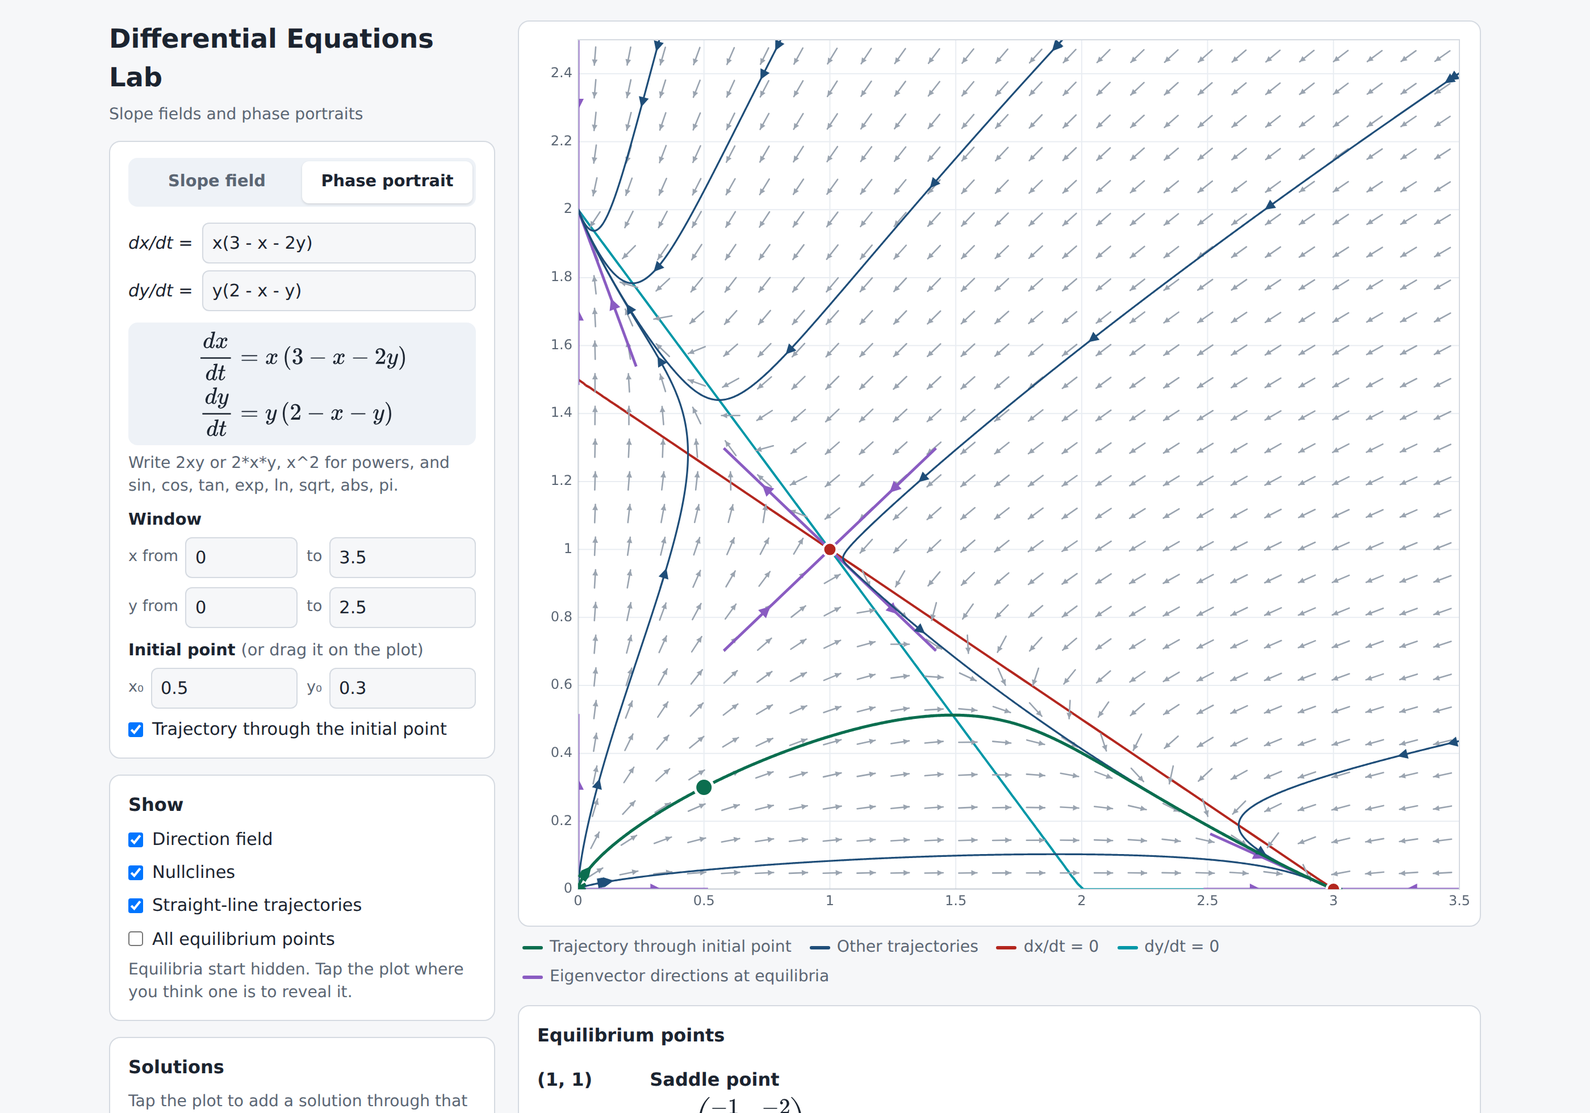
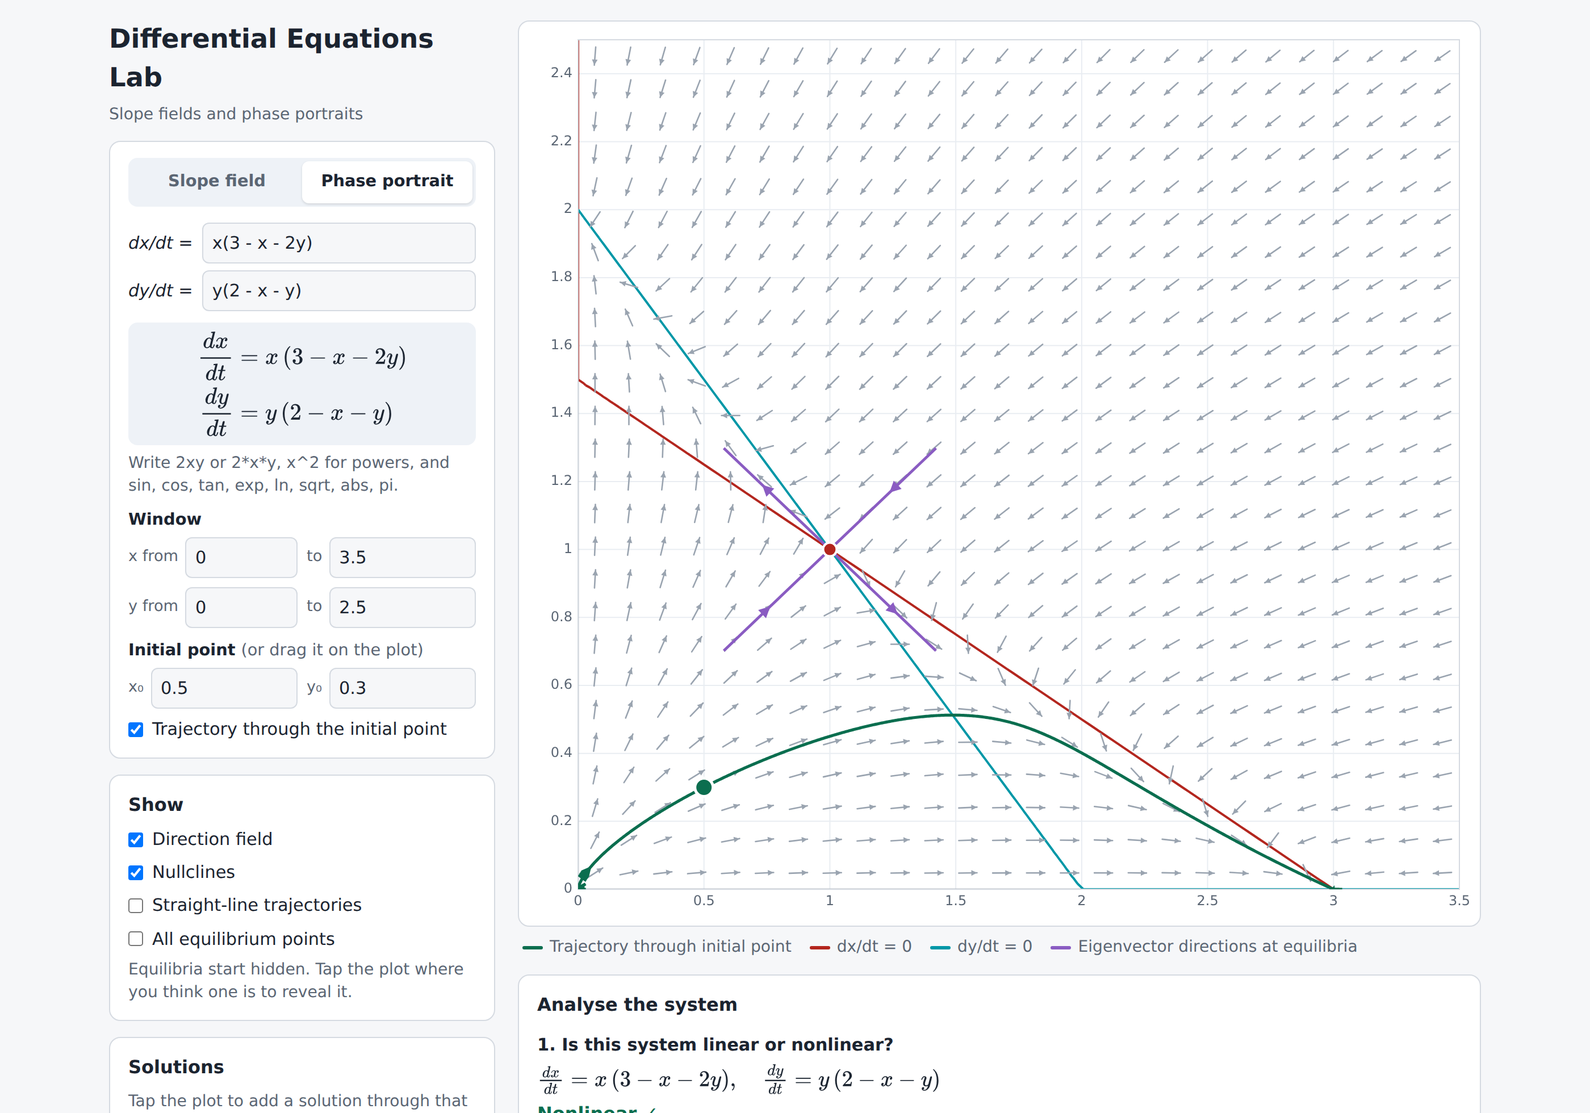
Coupled Linear DE Update Functionality

diff --git a/index.html b/index.html
@@ -93,6 +93,21 @@ tr.sel td{background:color-mix(in srgb,var(--euler) 18%,transparent)}
 .try{border:1px dashed var(--line);border-radius:8px;padding:10px 12px;margin-top:6px}
 footer{max-width:1240px;margin:0 auto;padding:4px 16px 28px;color:var(--muted);font-size:.88rem;display:flex;flex-wrap:wrap;gap:6px 16px;justify-content:space-between;border-top:1px solid var(--line);padding-top:14px}
 footer a{color:var(--accent)}
+.acard{border:1px solid var(--line);border-radius:10px;padding:12px 14px;margin-top:12px}
+.acard h3{font-size:1rem;margin:0 0 6px}
+.step{margin-top:12px;padding-top:10px;border-top:1px dashed var(--line)}
+.step:first-of-type{border-top:0;padding-top:0}
+.step h4{margin:0 0 6px;font-size:.95rem}
+.mat{display:inline-flex;align-items:center;gap:10px;margin:6px 0}
+.mgrid{display:grid;grid-template-columns:repeat(var(--cols,2),74px);gap:6px;padding:4px 10px;border-left:2px solid var(--ink);border-right:2px solid var(--ink);border-radius:8px}
+.mgrid input{text-align:center;padding:5px 4px}
+.mgrid input.bad{border-color:var(--eq);background:color-mix(in srgb,var(--eq) 10%,var(--bg))}
+.lrow{display:flex;flex-wrap:wrap;align-items:center;gap:8px 14px;margin:6px 0}
+.lrow input{width:130px}
+.choices{display:flex;flex-wrap:wrap;gap:6px;margin:6px 0}
+.choices button[aria-pressed="true"]{border-color:var(--accent);box-shadow:inset 0 0 0 1px var(--accent);background:var(--soft)}
+.done{color:var(--main);font-weight:700}
+.answer{background:var(--soft);border-radius:8px;padding:8px 12px;margin-top:8px}
 [hidden]{display:none!important}
 </style>
 <script>
@@ -191,7 +206,7 @@ window.MathJax={tex:{inlineMath:[["\\(","\\)"]],displayMath:[["\\[","\\]"]]},svg
 <div>
   <div class="plotwrap"><canvas id="cv" tabindex="0" aria-label="Plot. Drag the green point to move the initial point; arrow keys also move it."></canvas></div>
   <div class="legend" id="legend"></div>
-  <div class="panel" id="eqPanel" hidden style="margin-top:14px"><h2>Equilibrium points</h2><div id="eqList"></div></div>
+  <div class="panel" id="eqPanel" hidden style="margin-top:14px"><h2>Analyse the system</h2><div id="eqList"></div></div>
   <div class="panel" id="eulerPanel" hidden style="margin-top:14px">
     <h2>Euler's method</h2>
     <div class="tex" id="eulerTex" style="justify-content:flex-start"></div>
@@ -338,7 +353,7 @@ const $=id=>document.getElementById(id);
 const st={
   mode:"slope",
   slope:{src:["x + y"],w:[-4,4,-4,4],p:[0,0],h:0.5,n:8,seeds:[],F:null,ast:null},
-  phase:{src:["x + 2y","2x + y"],w:[-3,3,-3,3],p:[1,-0.5],h:0.1,n:15,seeds:[],F:null,ast:null,eqs:[],revealed:new Set(),linear:false},
+  phase:{src:["x + 2y","2x + y"],w:[-3,3,-3,3],p:[1,-0.5],h:0.1,n:15,seeds:[],F:null,ast:null,eqs:[],revealed:new Set(),linear:false,slDone:new Set(),task:null},
 };
 const S=()=>st[st.mode];
 const css=v=>getComputedStyle(document.documentElement).getPropertyValue(v).trim();
@@ -501,7 +516,8 @@ function analyse(e){
     ev=`\\lambda = ${Math.abs(re)<eps?"":fmt(re)}\\pm ${fmt(im)}i`;
     type=Math.abs(re)<eps?(st.phase.linear?"Centre":"Centre (linear approximation)"):(re<0?"Stable spiral":"Unstable spiral");
   }
-  return{J,ev,type,vecs};
+  const scalar=Math.abs(J[1])<1e-9&&Math.abs(J[2])<1e-9&&Math.abs(J[0]-J[3])<1e-9;
+  return{J,ev,type,vecs,scalar,tr,det,disc};
 }
 function checkLinear(){
   const s=st.phase,w=s.w;const pts=[[0.13,0.71],[0.62,0.24],[0.87,0.55],[0.31,0.38]].map(([a,b])=>[w[0]+a*(w[1]-w[0]),w[2]+b*(w[3]-w[2])]);
@@ -537,10 +553,10 @@ function drawBase(){
       c.strokeStyle=css("--blue");strokeSegs(c,contour((x,y)=>s.F(x,y)[1]));
     }
     if($("showField").checked)drawField(c);
-    if($("showSL").checked){
+    if($("showSL").checked||s.slDone.size){
       c.strokeStyle=css("--sl");c.fillStyle=css("--sl");c.lineWidth=2.4;
       const span=Math.hypot(s.w[1]-s.w[0],s.w[3]-s.w[2]);
-      for(const e of s.eqs){const a=analyse(e);for(const {l,v} of a.vecs){
+      for(const [ei,e] of s.eqs.entries()){if(!$("showSL").checked&&!s.slDone.has(ei))continue;const a=analyse(e);if(a.scalar)continue;for(const {l,v} of a.vecs){
         if(Math.abs(l)<1e-12)continue;
         const L=s.linear?span*2:span*0.12;
         const p1=toS(e.x-v[0]*L,e.y-v[1]*L),p2=toS(e.x+v[0]*L,e.y+v[1]*L);
@@ -659,8 +675,190 @@ function render(rebuildBase=true){
 }
 let raf=0;function overlay(){if(raf)return;raf=requestAnimationFrame(()=>{raf=0;render(false)})}
 
-/* ---------- Equilibrium panel ---------- */
-function renderEqPanel(){
+
+/* ---------- Analyse the system: student task ---------- */
+function resetTask(){const s=st.phase;s.task={lin:null,linSel:null,linTries:0,cards:{}};s.slDone=new Set()}
+function card(i){const t=st.phase.task;return t.cards[i]||(t.cards[i]={A:["","","",""],Aok:false,At:0,Abad:[],L:["",""],Lok:false,Lt:0,V:[["",""],["",""]],Vok:false,Vt:0,T:null,Tok:false,Tt:0,fb:{}})}
+function num(src){const c=compile(String(src),[]);const v=c.fn();if(!isFinite(v))throw Error("Not a number.");return v}
+function cplx(src){
+  const c=compile(String(src).replace(/\u2212/g,"-"),["i"]),f0=c.fn(0),f1=c.fn(1),f2=c.fn(2);
+  const re=f0,im=f1-f0;if(![re,im].every(isFinite)||Math.abs((f2-f0)-2*im)>1e-9*(1+Math.abs(im)))throw Error("Write each eigenvalue like 3, -0.5, 1 + 2i or -1 - 2i.");
+  return{re,im};
+}
+function eigs(a){
+  if(a.disc>=-1e-9){const r=Math.sqrt(Math.max(a.disc,0));return[{re:(a.tr+r)/2,im:0},{re:(a.tr-r)/2,im:0}]}
+  const im=Math.sqrt(-a.disc)/2;return[{re:a.tr/2,im},{re:a.tr/2,im:-im}];
+}
+const ctex=z=>Math.abs(z.im)<1e-9?fmt(z.re):(Math.abs(z.re)<1e-9?"":fmt(z.re))+(z.im<0?"-":(Math.abs(z.re)<1e-9?"":"+"))+(Math.abs(Math.abs(z.im)-1)<1e-9?"":fmt(Math.abs(z.im)))+"i";
+const TYPES=["Saddle point","Stable node","Unstable node","Stable spiral","Unstable spiral","Centre"];
+function typeKey(t){if(/Degenerate/.test(t))return null;if(/node/.test(t))return t.startsWith("Stable")?"Stable node":"Unstable node";if(/Centre/.test(t))return"Centre";return t}
+function mtex(J){return`\\begin{pmatrix}${fmt(J[0])}&${fmt(J[1])}\\\\${fmt(J[2])}&${fmt(J[3])}\\end{pmatrix}`}
+function lineTex(e,v){
+  if(Math.abs(v[0])<1e-9)return`x=${fmt(e.x)}`;
+  const m=v[1]/v[0],c=e.y-m*e.x,mm=Math.abs(m)<1e-12?"":(Math.abs(m-1)<1e-9?"":Math.abs(m+1)<1e-9?"-":fmt(m))+"x";
+  if(!mm)return`y=${fmt(c)}`;
+  return`y=${mm}${Math.abs(c)<1e-9?"":(c<0?"-":"+")+fmt(Math.abs(c))}`;
+}
+function renderEqPanel(){renderTask()}
+function renderTask(){
+  const s=st.phase,box=$("eqList");
+  if(st.mode!=="phase"||!s.F){$("eqPanel").hidden=true;return}
+  if(!s.task)resetTask();
+  $("eqPanel").hidden=false;
+  const t=s.task,eqTex=`\\frac{dx}{dt}=${tex(s.ast[0])},\\quad \\frac{dy}{dt}=${tex(s.ast[1])}`;
+  let h=`<div class="step"><h4>1. Is this system linear or nonlinear?</h4><p style="margin:0">\\(${eqTex}\\)</p>`;
+  if(t.lin===null){
+    h+=`<div class="choices">${["Linear","Nonlinear"].map(o=>`<button data-lin="${o}" aria-pressed="${t.linSel===o}">${o}</button>`).join("")}</div>
+    <div class="row" style="margin-top:4px"><button class="primary" data-act="lin">Check</button></div><div class="fb" id="linFb"></div>`;
+  }else h+=`<p class="done" style="margin:6px 0 0">${s.linear?"Linear":"Nonlinear"} \u2713</p>`;
+  h+=`</div>`;
+  if(t.lin){
+    if(s.linear){
+      if(!s.eqs.length)h+=`<div class="step"><p>The matrix of this system is singular, so there is no single equilibrium point in view (there may be a whole line of them). Try another system.</p></div>`;
+      else h+=cardHTML(0,true);
+    }else{
+      h+=`<div class="step"><h4>2. Find the equilibrium points</h4><p style="margin:0">Solve \\(\\frac{dx}{dt}=0\\) and \\(\\frac{dy}{dt}=0\\) simultaneously (the nullclines cross there), then tap each point on the plot to check it. Each one you find gets its own analysis below.</p></div>`;
+      const shown=s.eqs.map((e,i)=>i).filter(i=>$("showEq").checked||s.revealed.has(i));
+      if(!shown.length)h+=`<p class="hint">No equilibrium points found yet.</p>`;
+      for(const i of shown)h+=cardHTML(i,false);
+    }
+  }
+  box.innerHTML=h;
+  // restore focus-free values already in HTML; typeset
+  typeset(box);
+}
+function matInputs(i,key,vals,bad,cols=2,rows=2){
+  let g=`<div class="mgrid" style="--cols:${cols}">`;
+  for(let r=0;r<rows;r++)for(let c=0;c<cols;c++){const k=r*cols+c;g+=`<input data-card="${i}" data-key="${key}" data-k="${k}" value="${String(vals[k]??"").replace(/"/g,"&quot;")}" class="${bad&&bad.includes(k)?"bad":""}" inputmode="decimal" aria-label="row ${r+1} column ${c+1}">`}
+  return g+`</div>`;
+}
+function cardHTML(i,lin){
+  const s=st.phase,e=s.eqs[i],a=analyse(e),c=card(i),M=lin?"A":"J",n0=lin?2:3;
+  let h=`<div class="acard"><h3>${lin?"The linear system":`Equilibrium at (${fmt(e.x)}, ${fmt(e.y)})`}</h3>`;
+  // Step: matrix
+  h+=`<div class="step"><h4>${n0}. ${lin?"Write the system in matrix form":"Find the Jacobian matrix at this point"}</h4>`;
+  if(lin){
+    h+=`<p style="margin:0">\\(\\begin{pmatrix}\\dot x\\\\ \\dot y\\end{pmatrix}=A\\begin{pmatrix}x\\\\ y\\end{pmatrix}\\), where \\(A=\\begin{pmatrix}a&b\\\\ c&d\\end{pmatrix}\\).${Math.abs(e.x)>1e-9||Math.abs(e.y)>1e-9?` (The equilibrium is not at the origin, so use the coefficients of \\(x\\) and \\(y\\) only; the constants just move the equilibrium.)`:""}</p>`;
+  }else{
+    h+=`<p style="margin:0">\\(J=\\begin{pmatrix}\\frac{\\partial f}{\\partial x}&\\frac{\\partial f}{\\partial y}\\\\[2pt] \\frac{\\partial g}{\\partial x}&\\frac{\\partial g}{\\partial y}\\end{pmatrix}\\), where \\(f=\\frac{dx}{dt}\\) and \\(g=\\frac{dy}{dt}\\). Differentiate, then substitute \\(x=${fmt(e.x)},\\ y=${fmt(e.y)}\\).</p>`;
+  }
+  if(c.Aok)h+=`<p style="margin:8px 0 0">\\(${M}=${mtex(a.J)}\\) <span class="done">\u2713</span></p></div>`;
+  else{
+    h+=`<div class="mat"><span>\\(${M}=\\)</span>${matInputs(i,"A",c.A,c.Abad)}</div><div class="row" style="margin-top:4px"><button class="primary" data-act="A" data-card="${i}">Check</button>${c.At>=2?`<button data-act="Ashow" data-card="${i}">Show answer</button>`:""}</div><div class="fb ${c.fb.Ac||""}">${c.fb.A||""}</div></div></div>`;
+    return h;
+  }
+  // Step: eigenvalues
+  const ev=eigs(a);
+  h+=`<div class="step"><h4>${n0+1}. Find the eigenvalues of \\(${M}\\)</h4><p style="margin:0">Solve \\(\\det(${M}-\\lambda I)=0\\):\\(\\quad\\det\\begin{pmatrix}${fmt(a.J[0])}-\\lambda&${fmt(a.J[1])}\\\\ ${fmt(a.J[2])}&${fmt(a.J[3])}-\\lambda\\end{pmatrix}=0\\)</p>`;
+  if(c.Lok)h+=`<p style="margin:8px 0 0">\\(\\lambda_1=${ctex(ev[0])},\\ \\lambda_2=${ctex(ev[1])}\\) <span class="done">\u2713</span></p></div>`;
+  else{
+    h+=`<div class="lrow"><span>\\(\\lambda_1=\\)</span><input data-card="${i}" data-key="L" data-k="0" value="${c.L[0].replace(/"/g,"&quot;")}"><span>\\(\\lambda_2=\\)</span><input data-card="${i}" data-key="L" data-k="1" value="${c.L[1].replace(/"/g,"&quot;")}"></div>
+    <p class="hint" style="margin:0">Complex eigenvalues can be typed like -1 + 2i. Repeated eigenvalues go in both boxes.</p>
+    <div class="row"><button class="primary" data-act="L" data-card="${i}">Check</button>${c.Lt>=2?`<button data-act="Lshow" data-card="${i}">Show answer</button>`:""}</div><div class="fb ${c.fb.Lc||""}">${c.fb.L||""}</div></div></div>`;
+    return h;
+  }
+  // Step: eigenvectors
+  const real=Math.abs(ev[0].im)<1e-9;
+  h+=`<div class="step"><h4>${n0+2}. ${real?`Find the eigenvectors${lin?" and the straight-line trajectories":""}`:"Eigenvectors"}</h4>`;
+  if(!real){
+    h+=`<p style="margin:0">The eigenvalues are complex, so there are no real eigenvectors. No trajectory travels along a straight line: solutions turn around the equilibrium instead${Math.abs(ev[0].re)<1e-9?" (closed loops when the real part is 0)":", spiralling"}.</p></div>`;
+    c.Vok=true;
+  }else{
+    const vl=vecList(a,ev);
+    if(c.Vok){
+      h+=`<p style="margin:0">`+vl.map((q,k)=>{const w=shownVec(c,k,q);return`\\(\\lambda=${fmt(q.l)}:\\ \\mathbf v=\\begin{pmatrix}${fmt(w[0])}\\\\ ${fmt(w[1])}\\end{pmatrix}\\)`}).join("&emsp;")+` <span class="done">\u2713</span></p>`;
+      if(a.scalar)h+=`<p>Every nonzero vector is an eigenvector here, so every line through the equilibrium is a straight-line trajectory.</p>`;
+      else{
+        h+=`<div class="answer"><b>${lin?"Straight-line trajectories":"Eigenvector directions"}</b>${lin?"":" (trajectories near the equilibrium approach or leave along these lines; they are only exactly straight for linear systems)"}:`;
+        for(const q of vl){if(Math.abs(q.l)<1e-12){h+=`<div>\\(${lineTex(e,q.v)}\\): a line of equilibrium points (\\(\\lambda=0\\)).</div>`;continue}
+          h+=`<div>\\(${lineTex(e,q.v)}\\): \\(\\lambda=${fmt(q.l)}${q.l<0?"<0":">0"}\\), so ${lin?"solutions on this line move":"nearby trajectories move along this direction"} ${q.l<0?"towards":"away from"} the equilibrium.</div>`}
+        h+=`<div class="hint" style="margin-top:6px">These are now drawn on the plot.</div></div>`;
+      }
+      h+=`</div>`;
+    }else{
+      h+=`<p style="margin:0">For each eigenvalue, solve \\((${M}-\\lambda I)\\mathbf v=\\mathbf 0\\). Any nonzero multiple of an eigenvector is fine.</p>`;
+      for(const [k,q] of vl.entries()){
+        h+=`<div class="lrow"><span>\\(\\lambda=${fmt(q.l)}:\\quad \\mathbf v=\\)</span>${matInputs(i,"V"+k,c.V[k],c.Vbad&&c.Vbad.includes(k)?[0,1]:[],1,2)}</div>`;
+      }
+      h+=`<div class="row"><button class="primary" data-act="V" data-card="${i}">Check</button>${c.Vt>=2?`<button data-act="Vshow" data-card="${i}">Show answer</button>`:""}</div><div class="fb ${c.fb.Vc||""}">${c.fb.V||""}</div></div></div>`;
+      return h;
+    }
+  }
+  // Step: classify
+  const key=typeKey(a.type);
+  h+=`<div class="step"><h4>${n0+3}. What type of equilibrium is it?</h4>`;
+  if(!key){h+=`<p style="margin:0">One eigenvalue is zero, so this is a degenerate case that doesn't fit the usual types.</p></div></div>`;return h}
+  if(c.Tok){
+    h+=`<p class="done" style="margin:0">${key} \u2713</p>`;
+    if(!lin&&key==="Centre")h+=`<p class="hint">For a nonlinear system the linearisation can't confirm a centre on its own, so check the trajectories on the plot: closed loops confirm it.</p>`;
+    h+=`</div></div>`;
+  }else{
+    h+=`<div class="choices">${TYPES.map(o=>`<button data-type="${o}" data-card="${i}" aria-pressed="${c.T===o}">${o}</button>`).join("")}</div>
+    <div class="row" style="margin-top:4px"><button class="primary" data-act="T" data-card="${i}">Check</button></div><div class="fb ${c.fb.Tc||""}">${c.fb.T||""}</div></div></div>`;
+  }
+  return h;
+}
+function niceVec(v){const nz=v.filter(x=>Math.abs(x)>1e-9);if(!nz.length)return v;const d=nz.reduce((m,x)=>Math.abs(x)<Math.abs(m)?x:m);return v.map(x=>{const r=x/d;return Math.abs(r-Math.round(r))<1e-6?Math.round(r):r})}
+function shownVec(c,k,q){try{const v=c.V[k].map(num);if(Math.hypot(...v)>1e-12)return v}catch(e){}return niceVec(q.v)}
+function vecList(a,ev){
+  if(a.scalar)return[{l:ev[0].re,v:[1,0]}];
+  if(Math.abs(ev[0].re-ev[1].re)<1e-9)return[{l:ev[0].re,v:a.vecs[0].v}];
+  return a.vecs.map(q=>({l:q.l,v:q.v}));
+}
+function taskCheck(act,i){
+  const s=st.phase,e=s.eqs[i],a=analyse(e),c=card(i),lin=s.linear,M=lin?"A":"J";
+  const say=(k,ok,msg)=>{c.fb[k]=msg;c.fb[k+"c"]=ok?"ok":"no"};
+  if(act==="A"){
+    c.Abad=[];let err=null;
+    c.A.forEach((v,k)=>{try{if(!near(num(v),a.J[k],1e-6))c.Abad.push(k)}catch(x){c.Abad.push(k);if(String(v).trim())err=err||"Use numbers only (fractions like 1/2 are fine)."}});
+    if(!c.Abad.length){c.Aok=true;c.fb.A=""}
+    else{c.At++;say("A",false,(err?err+" ":"")+`${c.Abad.length===1?"One entry is":c.Abad.length+" entries are"} not right yet (marked in red). `+(lin?"Each row holds the coefficients of x and y from one equation.":"Check the partial derivatives, then substitute the coordinates of the equilibrium."))}
+  }else if(act==="Ashow"){c.A=a.J.map(v=>fmt(v));c.Abad=[];c.Aok=true}
+  else if(act==="L"){
+    const ev=eigs(a);let z;
+    try{z=c.L.map(cplx)}catch(x){say("L",false,x.message);return}
+    const close=(p,q)=>Math.hypot(p.re-q.re,p.im-q.im)<=0.006*(1+Math.hypot(q.re,q.im));
+    if((close(z[0],ev[0])&&close(z[1],ev[1]))||(close(z[0],ev[1])&&close(z[1],ev[0]))){c.Lok=true}
+    else{c.Lt++;const one=close(z[0],ev[0])||close(z[0],ev[1])||close(z[1],ev[0])||close(z[1],ev[1]);
+      say("L",false,(one?"One of these is right. ":"Not quite. ")+`Check your characteristic equation: the eigenvalues should add up to the trace of ${M} and multiply to give its determinant.`)}
+  }else if(act==="Lshow"){c.Lok=true}
+  else if(act==="V"){
+    const ev=eigs(a),vl=vecList(a,ev);c.Vbad=[];
+    for(const [k,q] of vl.entries()){
+      let v;try{v=c.V[k].map(num)}catch(x){c.Vbad.push(k);continue}
+      const g=Math.hypot(...v);if(g<1e-12){c.Vbad.push(k);continue}
+      if(a.scalar)continue;
+      if(Math.abs(v[0]*q.v[1]-v[1]*q.v[0])/g>0.01)c.Vbad.push(k);
+    }
+    if(!c.Vbad.length){c.Vok=true;s.slDone.add(i);render(true);updateLegend()}
+    else{c.Vt++;say("V",false,`${c.Vbad.length===1&&vl.length>1?"One eigenvector isn't":"Not"} right yet. Substitute \u03bb into \\((${M}-\\lambda I)\\mathbf v=\\mathbf 0\\): the first row gives \\((a-\\lambda)v_1+b\\,v_2=0\\). A zero vector doesn't count.`)}
+  }else if(act==="Vshow"){const vl=vecList(a,eigs(a));vl.forEach((q,k)=>{const w=niceVec(q.v);c.V[k]=[fmt(w[0]),fmt(w[1])]});c.Vok=true;s.slDone.add(i);render(true);updateLegend()}
+  else if(act==="T"){
+    if(!c.T){say("T",false,"Choose one type.");return}
+    if(c.T===typeKey(a.type)){c.Tok=true;if(lin){s.revealed.add(i);overlay()}}
+    else{c.Tt++;say("T",false,"Not quite. Real eigenvalues with opposite signs give a saddle; real eigenvalues of the same sign give a node (stable if negative). Complex eigenvalues a \u00b1 bi give a spiral (stable if a < 0) or a centre if a = 0.")}
+  }
+}
+$("eqList").addEventListener("input",ev=>{
+  const el=ev.target;if(!el.dataset.card)return;const c=card(+el.dataset.card),k=+el.dataset.k,key=el.dataset.key;
+  if(key==="A")c.A[k]=el.value;else if(key==="L")c.L[k]=el.value;else if(key.startsWith("V"))c.V[+key.slice(1)][k]=el.value;
+  el.classList.remove("bad");
+});
+$("eqList").addEventListener("click",ev=>{
+  const s=st.phase,t=s.task,b=ev.target.closest("button");if(!b)return;
+  if(b.dataset.lin){t.linSel=b.dataset.lin;b.parentNode.querySelectorAll("button").forEach(x=>x.setAttribute("aria-pressed",x===b));$("linFb").textContent="";return}
+  if(b.dataset.type){card(+b.dataset.card).T=b.dataset.type;b.parentNode.querySelectorAll("button").forEach(x=>x.setAttribute("aria-pressed",x===b));return}
+  const act=b.dataset.act;if(!act)return;
+  if(act==="lin"){
+    const fb=$("linFb");if(!t.linSel){fb.className="fb no";fb.textContent="Choose one.";return}
+    if((t.linSel==="Linear")===s.linear){t.lin=true}
+    else{t.linTries++;fb.className="fb no";fb.textContent=t.linSel==="Linear"?"Not quite. Look for terms that aren't just a number times x or y: products like xy, powers like x\u00b2, or functions like sin x make a system nonlinear.":"Not quite. Each right-hand side is just a number times x plus a number times y (plus possibly a constant), so the system is linear.";return}
+  }else taskCheck(act,+b.dataset.card);
+  renderTask();
+});
+
+/* ---------- old equilibrium panel (replaced) ---------- */
+function oldEqPanel(){
   const s=st.phase,list=$("eqList");
   const shown=s.eqs.map((e,i)=>i).filter(i=>$("showEq").checked||s.revealed.has(i));
   $("eqPanel").hidden=st.mode!=="phase"||!shown.length;
@@ -689,7 +887,7 @@ function readFunctions(){
       try{b=compile($("g2").value,["x","y"])}catch(e){$("g2").classList.add("bad");throw e}
       s.src=[$("g1").value,$("g2").value];s.F=(x,y)=>[a.fn(x,y),b.fn(x,y)];s.ast=[a.ast,b.ast];
       setTex($("tex"),`\\begin{aligned}\\frac{dx}{dt}&=${tex(a.ast)}\\\\ \\frac{dy}{dt}&=${tex(b.ast)}\\end{aligned}`,true,`dx/dt = ${$("g1").value},  dy/dt = ${$("g2").value}`);
-      s.linear=checkLinear();s.eqs=findEquilibria();s.revealed=new Set();
+      s.linear=checkLinear();s.eqs=findEquilibria();s.revealed=new Set();resetTask();
     }
     return true;
   }catch(e){if(st.mode==="slope")$("f1").classList.add("bad");$("err").textContent=e.message;return false}
@@ -697,7 +895,7 @@ function readFunctions(){
 function readWindow(){
   const w=["x0w","x1w","y0w","y1w"].map(k=>parseFloat($(k).value));
   if(w.some(isNaN)||w[0]>=w[1]||w[2]>=w[3]){$("err").textContent="Check the window: each lower value must be less than the upper one.";return false}
-  S().w=w;if(st.mode==="slope")resetQuiz();if(st.mode==="phase"&&S().F){st.phase.eqs=findEquilibria();st.phase.revealed=new Set();st.phase.linear=checkLinear()}
+  S().w=w;if(st.mode==="slope")resetQuiz();if(st.mode==="phase"&&S().F){st.phase.eqs=findEquilibria();st.phase.revealed=new Set();st.phase.linear=checkLinear();resetTask()}
   return true;
 }
 function writeInputs(){
@@ -737,7 +935,7 @@ function updateLegend(){
   if(st.mode==="slope"&&$("showIso").checked){L.push(sw("--eq","Nullcline (m = 0)"));L.push(sw("--iso","Isoclines"))}
   if(st.mode==="phase"){
     if($("showNull").checked){L.push(sw("--eq","dx/dt = 0"));L.push(sw("--blue","dy/dt = 0"))}
-    if($("showSL").checked)L.push(sw("--sl",st.phase.linear?"Straight-line trajectories":"Eigenvector directions at equilibria"));
+    if($("showSL").checked||st.phase.slDone.size)L.push(sw("--sl",st.phase.linear?"Straight-line trajectories":"Eigenvector directions at equilibria"));
   }
   $("legend").innerHTML=L.join("");
 }

diff --git a/README.md b/README.md
@@ -51,14 +51,21 @@ A short interactive activity that works for any equation entered, not just the b
 - Direction field, trajectories with direction arrows, and a draggable initial point.
 - Nullclines (dx/dt = 0 and dy/dt = 0) in separate colours.
 - Straight-line trajectories along the eigenvectors for linear systems. For nonlinear systems, the eigenvector directions of the linearisation are shown at each equilibrium.
-- **Equilibrium points start hidden.** Students tap where they think one is to reveal it, together with its Jacobian, eigenvalues and classification (saddle, stable or unstable node, stable or unstable spiral, centre). A toggle shows them all at once.
+- **Analyse the system**, a step-by-step student task with feedback at every stage:
+  1. Decide whether the system is linear or nonlinear.
+  2. Linear systems: fill in the matrix A in a 2×2 template. Nonlinear systems: find the equilibrium points (they start hidden; students tap where they think one is to reveal it), then fill in the Jacobian at each one.
+  3. Find the eigenvalues (complex values such as -1 + 2i are accepted).
+  4. Find the eigenvectors. The straight-line trajectories (or, for nonlinear systems, the eigenvector directions) then appear on the plot, with their equations.
+  5. Classify the equilibrium: saddle, stable or unstable node, stable or unstable spiral, or centre.
+
+  Wrong answers are highlighted (down to the individual matrix entry) with a hint, and a "Show answer" button appears after two attempts.
 - Euler's method for the coupled system, with step triangles and a table.
 
 ![Competing species model with nullclines and eigenvector directions](screenshots/phase-portrait.png)
 
-| Revealed equilibria | Euler's method for a coupled system |
+| Analyse the system | Euler's method for a coupled system |
 | --- | --- |
-| ![Equilibrium classification](screenshots/equilibria.png) | ![Euler's method for a coupled system](screenshots/euler-coupled.png) |
+| ![Step-by-step analysis of an equilibrium point](screenshots/equilibria.png) | ![Euler's method for a coupled system](screenshots/euler-coupled.png) |
 
 ### Also
 
